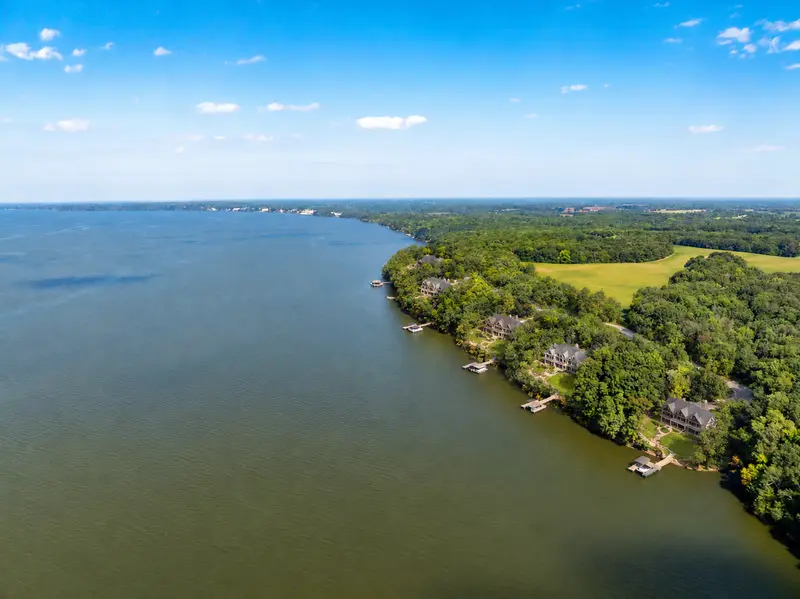
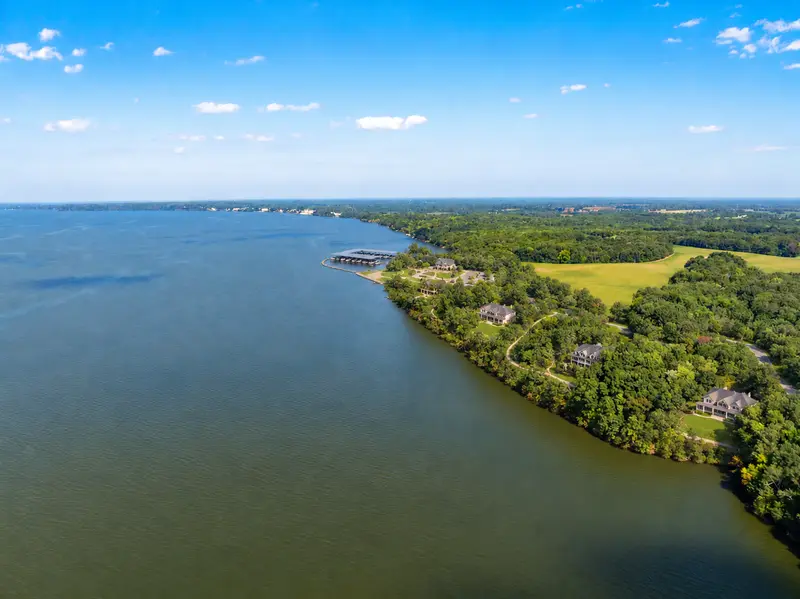
Replace Waterfront Estates concept (shoreline regulations)
The earlier rendering showed a private dock at every home, which doesn't
fit TVA shoreline rules. The new one sets the homes back in the trees
with a single shared dock; it lines up with source photo 62 like the
others. Alt text updated to match.

Claude-Session: https://claude.ai/code/session_01FiGmMBAuR3rbnLVuuFUXma

diff --git a/index.html b/index.html
@@ -165,7 +165,7 @@ video:
         <article class="tile reveal">
           {% capture before %}{{ ph }}62-800.webp{% endcapture %}{% capture after %}{{ cx }}estates-800.webp{% endcapture %}{% capture before_l %}{{ ph }}62-1600.webp{% endcapture %}{% capture after_l %}{{ cx }}estates-1440.webp{% endcapture %}
           {% include compare.html class="compare--card" start="10" before=before before_w="800" before_h="599" before_alt="Wooded shoreline along the wide lake today"
-             before_large=before_l after_large=after_l after=after after_w="800" after_h="599" after_alt="Artist's concept: estate homes with private docks along the shoreline" %}
+             before_large=before_l after_large=after_l after=after after_w="800" after_h="599" after_alt="Artist's concept: estate homes set back along the wooded shoreline, with a shared community dock" %}
           <div class="tile__body">
             <h3>Waterfront Estates</h3>
             <p>Private one-acre homesites along about a mile of shoreline, with direct views across the widest part of the lake.</p>
